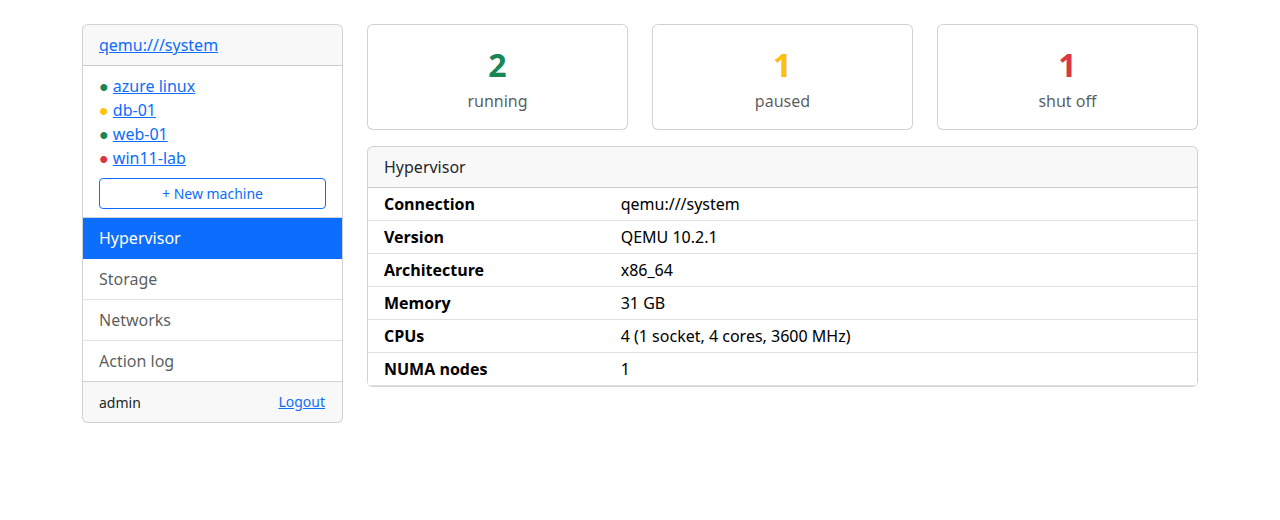
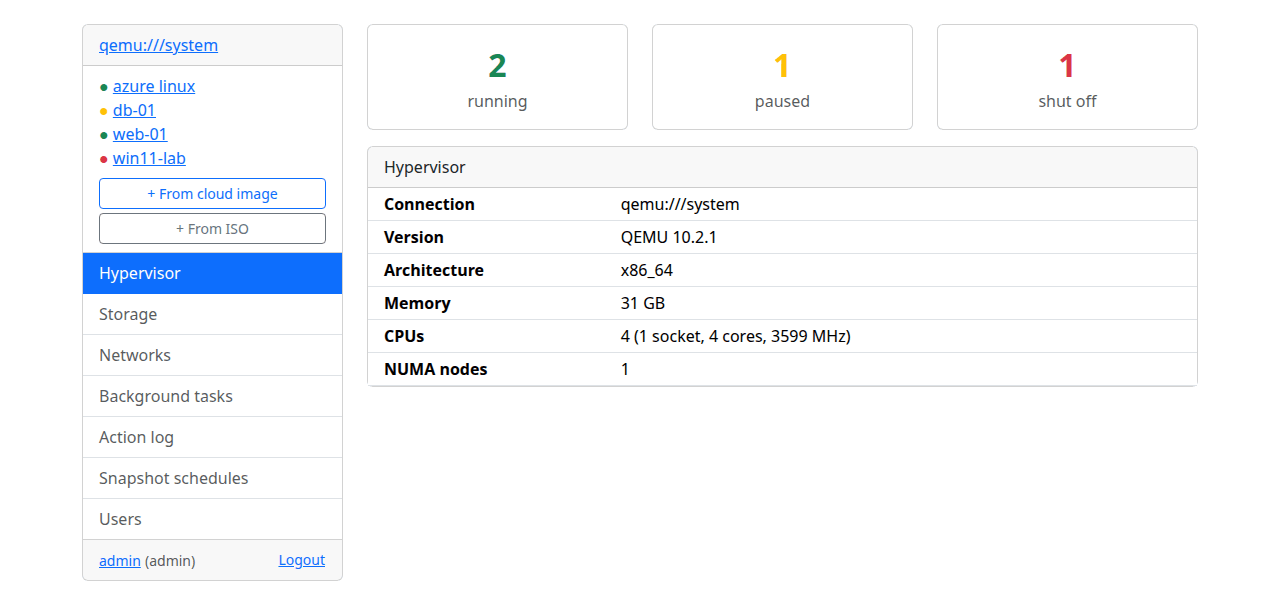
Refresh screenshots, fix layout issues found while taking them
- new README screenshots: live charts, console, cloud images, editing,
  users, background tasks, action log, networks, dark theme
- content column no longer drops below the menu when a table has long
  unbreakable text (min-width: 0 on .col)
- stacked "new machine" buttons in the menu, wider boot order and pool
  fields on the edit page, readable background task names

diff --git a/lang/pl.php b/lang/pl.php
@@ -248,7 +248,6 @@ return [
     'The machine has no CD/DVD drive, a SATA drive will be added.' => 'Maszyna nie ma napędu CD/DVD, zostanie dodany napęd SATA.',
     'The machine is running: memory, vCPU and boot order changes take effect after it is shut down and started again. Disks and network interfaces are attached immediately.' => 'Maszyna działa: zmiany pamięci, vCPU i kolejności bootowania zadziałają po jej wyłączeniu i ponownym uruchomieniu. Dyski i karty sieciowe są podłączane od razu.',
     'back' => 'wróć',
-    'clone' => 'klonowanie',
     'done' => 'gotowe',
     'empty (eject)' => 'pusty (wysuń)',
     'queued' => 'w kolejce',
@@ -314,9 +313,7 @@ return [
     'The image is already downloaded or being downloaded.' => 'Obraz jest już pobrany lub trwa jego pobieranie.',
     'User in the machine' => 'Użytkownik w maszynie',
     'also the hostname' => 'również nazwa hosta',
-    'cloud_create' => 'tworzenie z obrazu',
     'downloaded' => 'pobrany',
-    'image_download' => 'pobieranie obrazu',
     'not downloaded' => 'niepobrany',
     'one per line' => 'jeden w linii',
     'optional' => 'opcjonalne',
@@ -372,4 +369,7 @@ return [
     'Token revoked.' => 'Token unieważniony.',
     'Tokens act with your role (%s). Example:' => 'Tokeny działają z Twoją rolą (%s). Przykład:',
     'token name, e.g. ansible' => 'nazwa tokenu, np. ansible',
+    'Image download' => 'Pobieranie obrazu',
+    'Machine from cloud image' => 'Maszyna z obrazu chmurowego',
+    'Cloning' => 'Klonowanie',
 ];

diff --git a/lib/jobs.php b/lib/jobs.php
@@ -5,6 +5,13 @@
 
 const JOB_KEEP_SECONDS = 7 * 24 * 3600;
 
+// job type => label shown on the tasks page (translated)
+const JOB_LABELS = [
+    'clone'          => 'Cloning',
+    'image_download' => 'Image download',
+    'cloud_create'   => 'Machine from cloud image',
+];
+
 function job_create($type, array $params) {
     db_query('INSERT INTO jobs (type, params, conn, username, created_at) VALUES (?, ?, ?, ?, ?)', [
         $type, json_encode($params), connection_current_key(), current_user()['username'] ?? '-', time(),
@@ -16,6 +23,7 @@ function job_list($limit = 50) {
     $jobs = db_query('SELECT * FROM jobs ORDER BY id DESC LIMIT '.(int)$limit)->fetchAll();
     foreach ($jobs as &$job) {
         $job['params'] = json_decode($job['params'], true) ?: [];
+        $job['label'] = JOB_LABELS[$job['type']] ?? $job['type'];
     }
     return $jobs;
 }

diff --git a/lib/i18n.php b/lib/i18n.php
@@ -44,7 +44,7 @@ const I18N_DYNAMIC = [
     'Starting machine, it may take some time', 'Shutting down machine, it may take some time',
     'Machine forcibly stopped',
     'Sunday', 'Monday', 'Tuesday', 'Wednesday', 'Thursday', 'Friday', 'Saturday',
-    'clone', 'image_download', 'cloud_create', 'Hard disk', 'CD/DVD', 'Network (PXE)', 'Rebooting machine, it may take some time', 'Suspending machine', 'Resuming machine',
+    'Cloning', 'Image download', 'Machine from cloud image', 'Hard disk', 'CD/DVD', 'Network (PXE)', 'Rebooting machine, it may take some time', 'Suspending machine', 'Resuming machine',
 ];
 
 // all strings passed to t() in PHP files and to the |t modifier in templates

diff --git a/README.md b/README.md
@@ -2,9 +2,10 @@
 
 Web panel for libvirt/KVM written in PHP (Smarty 5, Bootstrap 5).
 
-Manage virtual machines from the browser: power actions, snapshots, a noVNC
-console, a new machine wizard, storage and network overview - deployable with
-one script on nginx or as a Docker container.
+Manage virtual machines from the browser: live charts, snapshots with
+schedules, a noVNC console, machines from cloud images with cloud-init,
+cloning, users with roles, a REST API - deployable with one script on nginx
+or as a Docker container. English and Polish interface.
 
 ![Machine details](.github/screenshots/vm-details.png)
 
@@ -45,10 +46,14 @@ one script on nginx or as a Docker container.
 |---|---|
 | ![Dashboard](.github/screenshots/hypervisor.png) | ![Browser console](.github/screenshots/console.png) |
 | **Dashboard** - machine states and host info | **Console** - noVNC in the browser |
-| ![New machine wizard](.github/screenshots/new-machine.png) | ![Dark theme](.github/screenshots/vm-details-dark.png) |
-| **New machine wizard** | **Dark theme** follows the system setting |
-| ![Networks](.github/screenshots/networks.png) | ![Action log](.github/screenshots/action-log.png) |
-| **Networks** with DHCP leases | **Action log** - who did what and when |
+| ![Cloud images](.github/screenshots/cloud.png) | ![Dark theme](.github/screenshots/vm-details-dark.png) |
+| **Cloud images** - a new machine with cloud-init in a minute | **Dark theme** follows the system setting |
+| ![Editing a machine](.github/screenshots/edit.png) | ![Users and roles](.github/screenshots/users.png) |
+| **Editing** - resources, CD/DVD, hot-plugged disks and NICs, clone, delete | **Users** with admin, operator and viewer roles |
+| ![Background tasks](.github/screenshots/jobs.png) | ![Action log](.github/screenshots/action-log.png) |
+| **Background tasks** - downloads, clones, cloud machines | **Action log** - who did what and when |
+| ![Networks](.github/screenshots/networks.png) | |
+| **Networks** with DHCP leases | |
 
 ## Requirements
 
